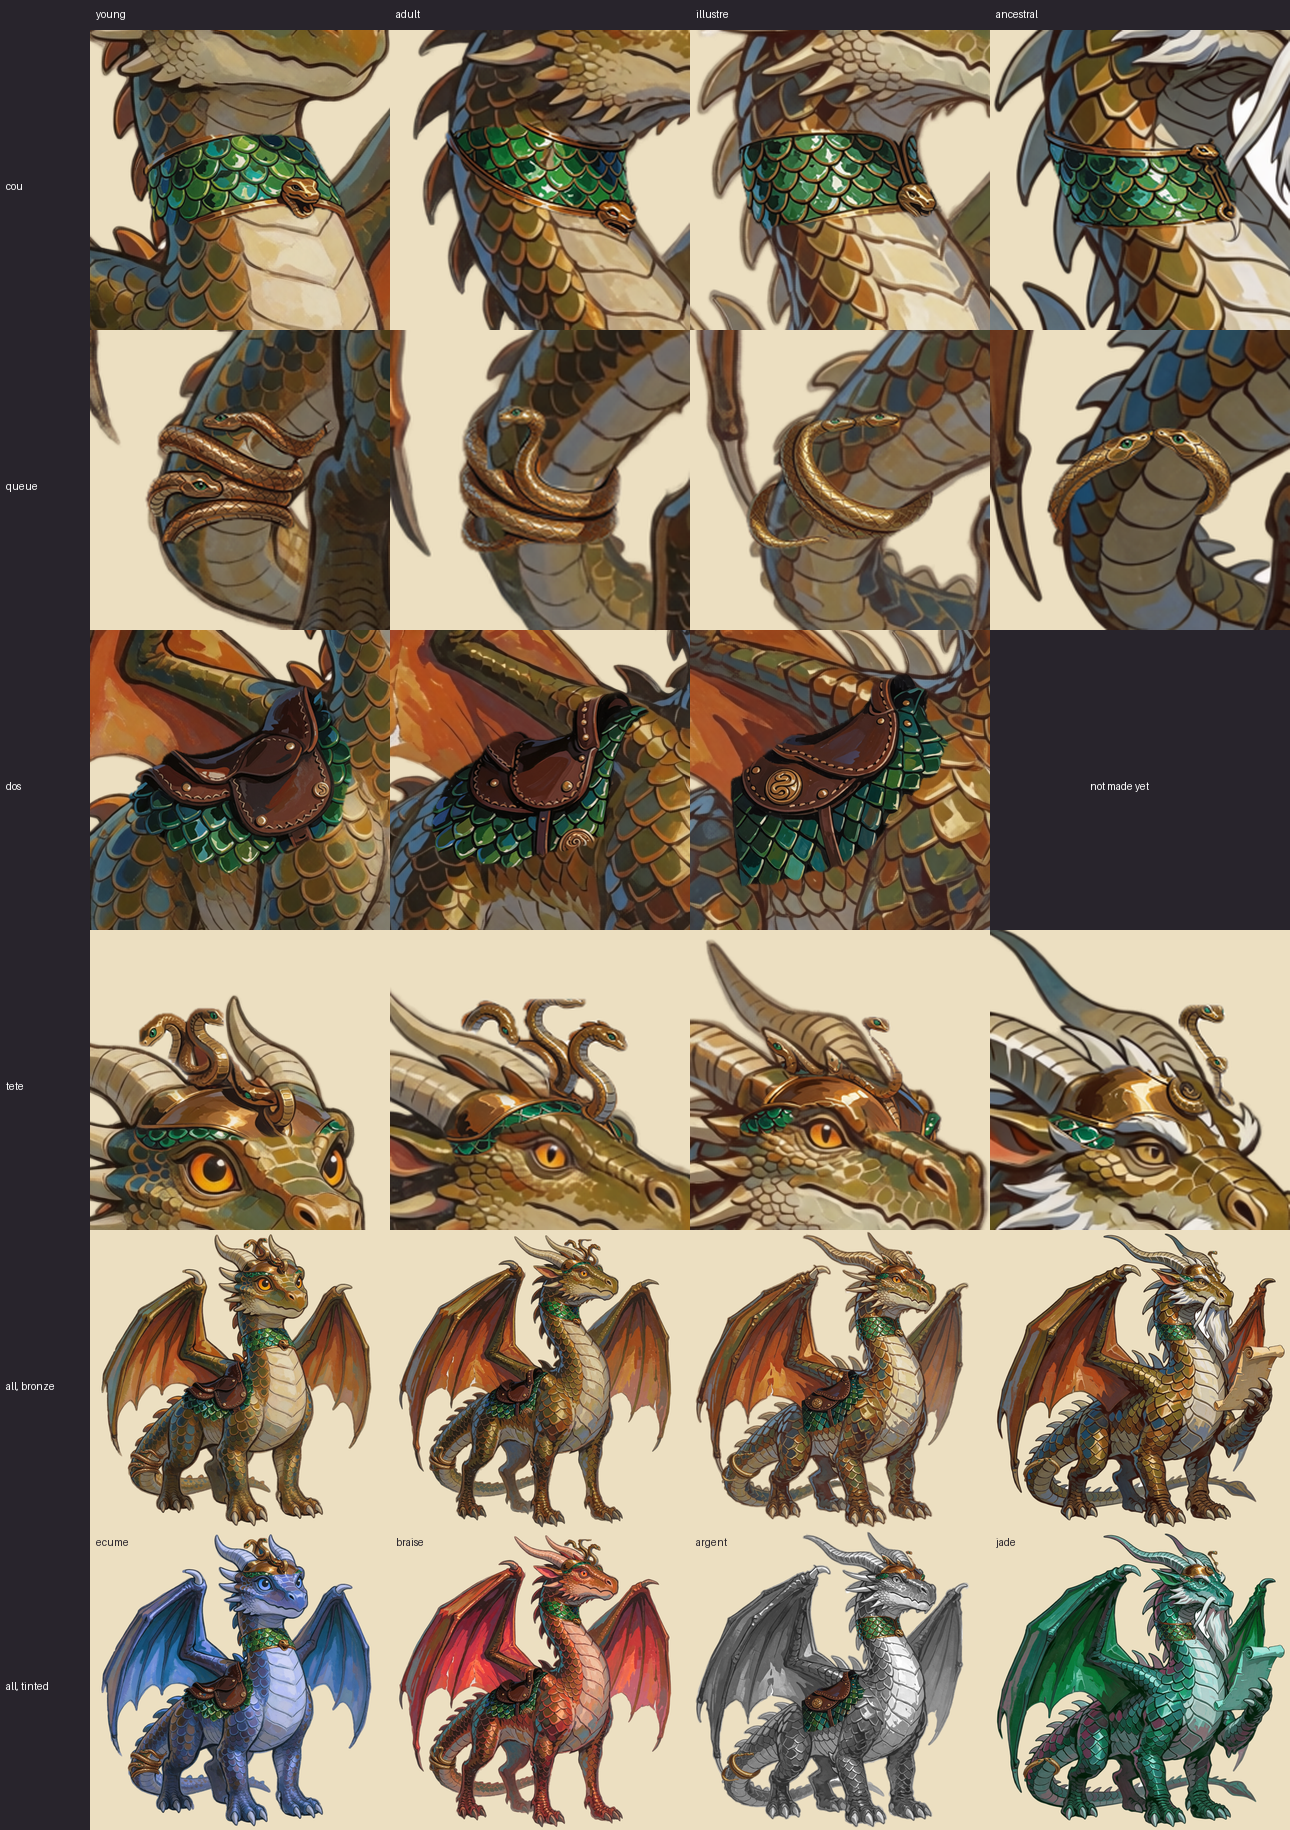
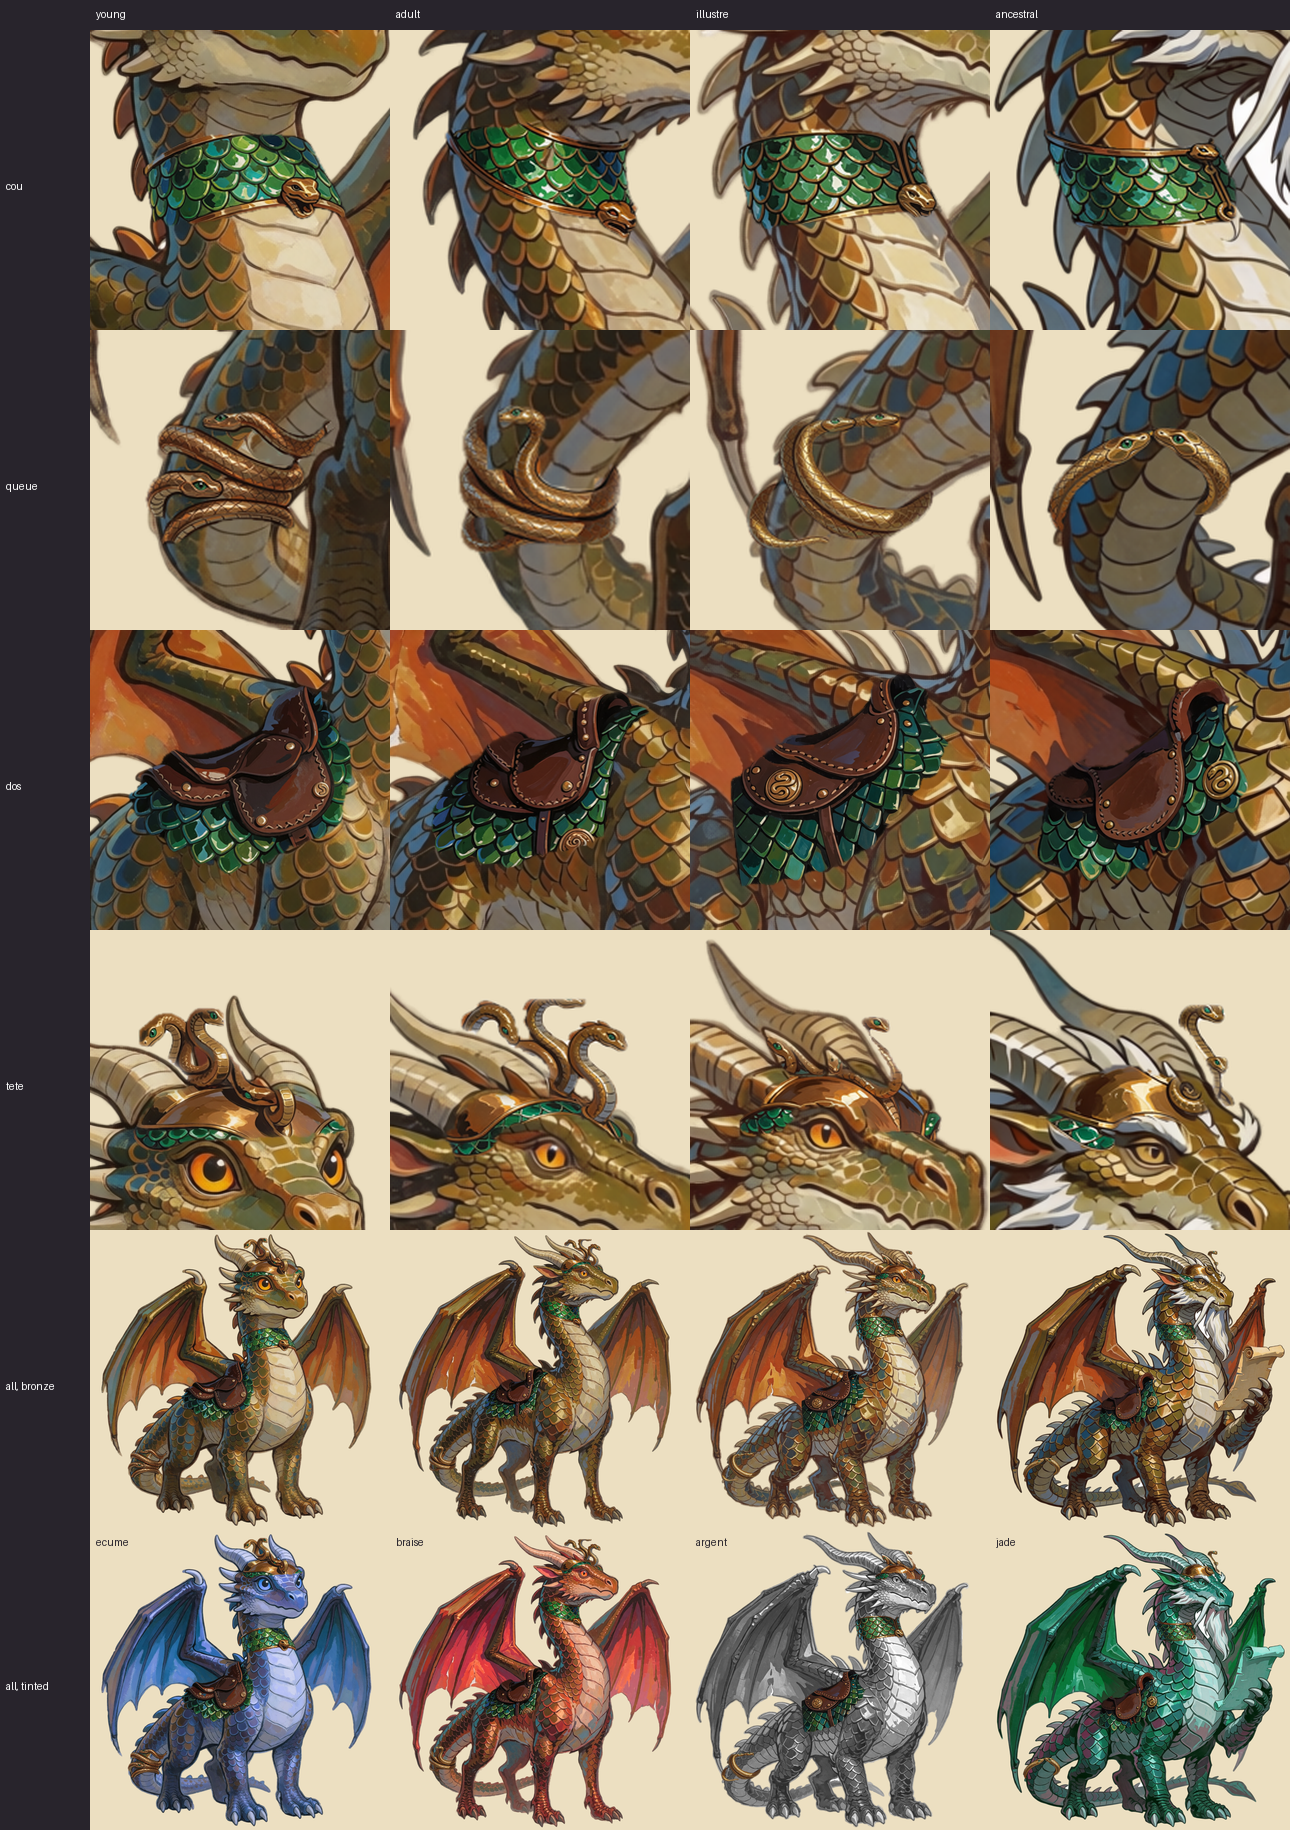
Art: Hydra's last overlay, the ancestral saddle (seed 1431; 1432 and 1433 rejected), crop in hydre.json, contact sheet with all 16, style guide seed

Changed region(s): [[0.7442, 0.3426, 1.0, 0.5295], [0.8372, 0.9033, 0.8992, 0.9656], [0.8372, 0.7475, 0.8992, 0.7787]]

diff --git a/docs/art/style-guide.md b/docs/art/style-guide.md
@@ -573,7 +573,7 @@ overlay except the four young ones), WebPs and the manifest fragment `hydre.json
 |---|---|---|---|---|
 | collier d'écailles (cou, 0.75) | 1101 | 1201 | 1303 | 1401 |
 | anneau de serpents (queue, 0.75) | 1121 | 1221 | 1322 | 1421 |
-| selle des marais (dos, 0.8) | 1132 | 1232 | 1333 | not made yet |
+| selle des marais (dos, 0.8) | 1132 | 1232 | 1333 | 1431 |
 | casque à serpents (tête, 0.85) | 1112 | 1212 | 1313 | 1413 |
 
 - **Cou**: a wide band of overlapping glossy emerald serpent scales, thin polished bronze rims top and
@@ -589,7 +589,8 @@ overlay except the four young ones), WebPs and the manifest fragment `hydre.json
   an emerald scale saddle cloth down the flank, bronze studs and a coiled-serpent medallion.
   Illustre 1333: two enclosed patches of the seat matched the original's colours and were dropped by
   the extraction; filled back from the result. Rejected: illustre 1331 (squeezed against the
-  shoulder), 1332 (a flat scale panel).
+  shoulder), 1332 (a flat scale panel); ancestral 1432 (smeared along the wing's shadow), 1433 (a
+  black shadow hole under the seat).
 - **Tête**: a smooth bronze dome with an emerald scale rim and a crest of coiled bronze serpents with
   raised heads. Extracted in parts (dome, each standing serpent) and merged; serpents that stand out
   of the slot's air need `--grow 6-8`. Rejected: illustre 1311-1312 and ancestral 1411-1412 (serpent
